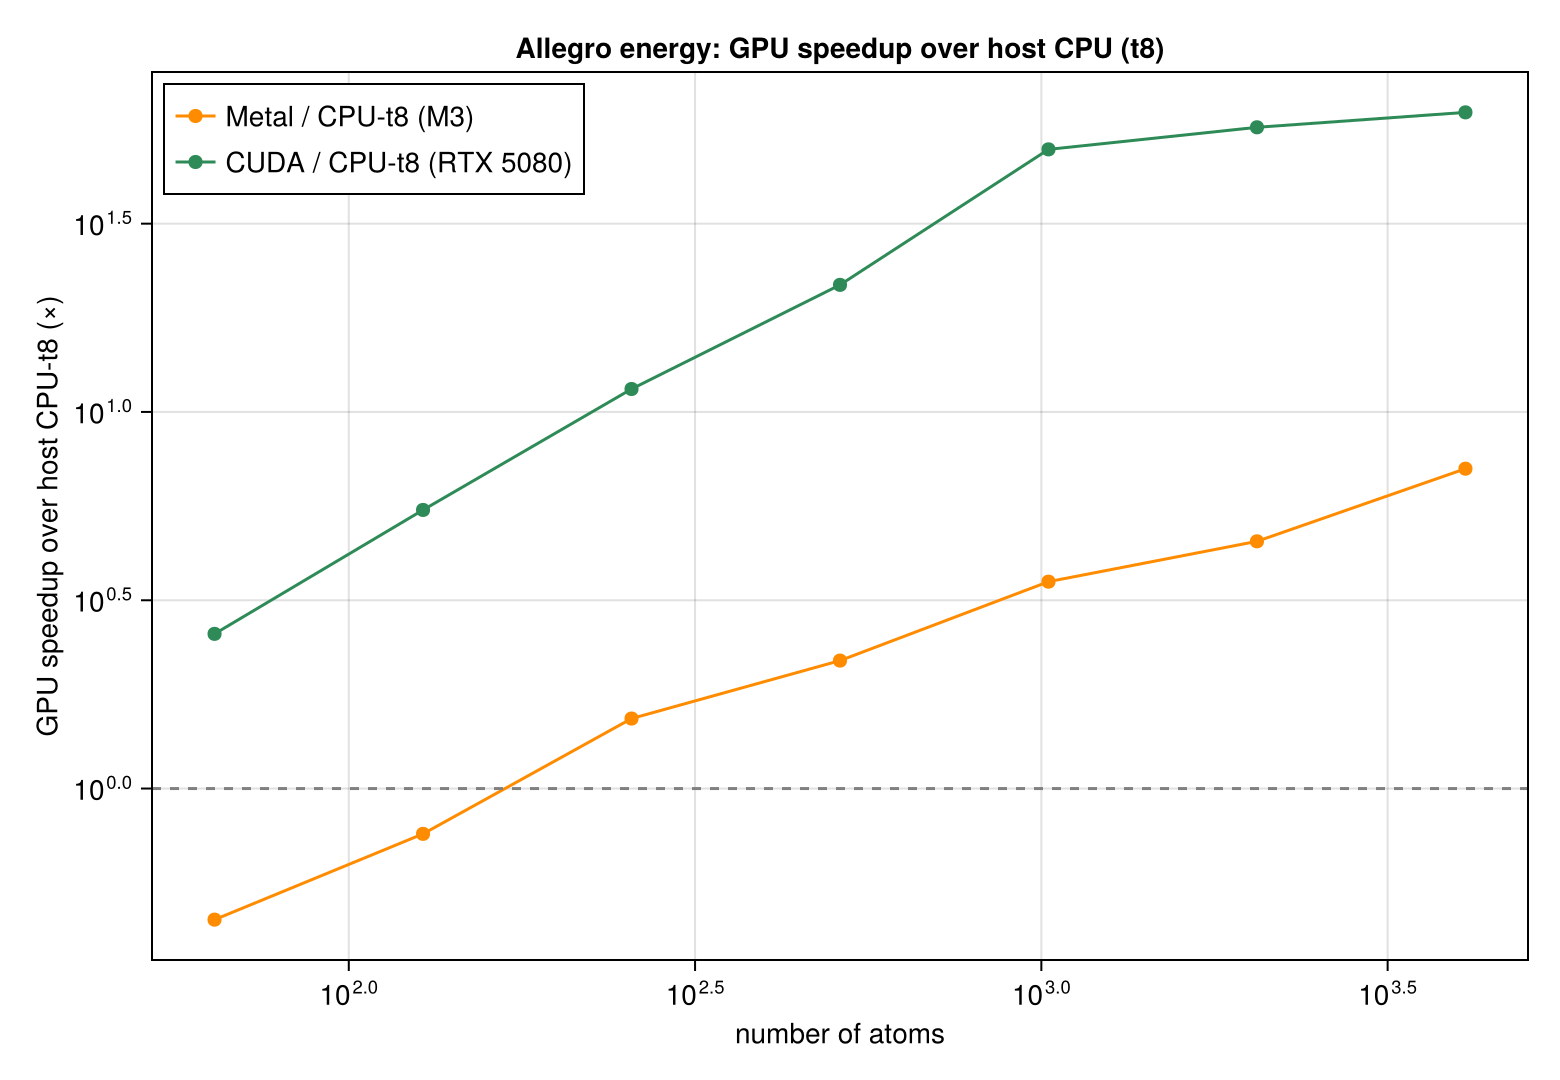
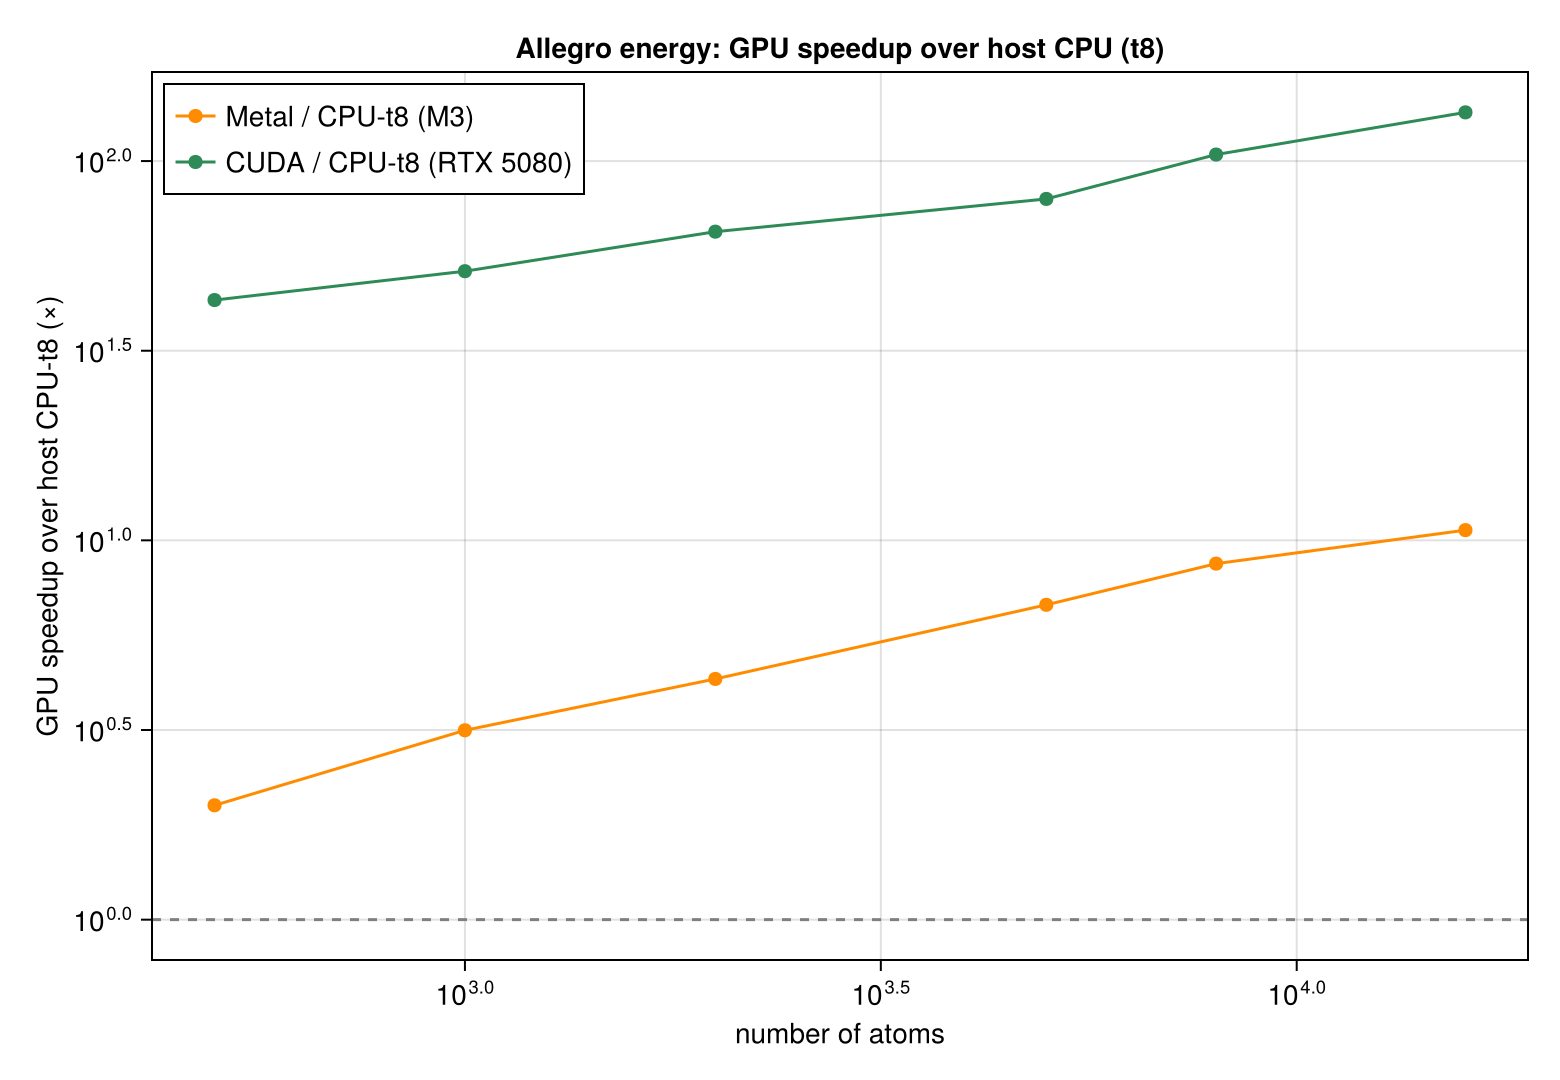
Allegro benchmarks: update report + figures to ANI sizes (500-15,954 atoms)
Rebenchmarked energy + forces vs N at the ANI-2x sizes across all backends. Tables
and prose show Molly's native GPU (CUDA + Metal) is the fastest at every size for
both energy and forces (32/71 ms at 15,954 atoms vs nequip CUDA 50/116, allegro-jax
4.7/4.8 s), and the only Apple-GPU path; the references win only on CPU forces
(nequip's torch autograd). Added ANI-style GPU-speedup-over-CPU-t8 plots with the
slow-CPU-baseline caveat. allegro-jax dense O(N^2) so its CPU stops at 2000 atoms.

diff --git a/benchmark/allegro_benchmarks.md b/benchmark/allegro_benchmarks.md
@@ -145,72 +145,66 @@ host** while Metal is the **Apple M3** (cross-machine). Reproduce with `benchmar
 (nequip) and `benchmark/allegro_jax_bench.py` (JAX) alongside `benchmark/allegro_cuda_compare.jl` and
 `benchmark/allegro.jl` (Molly), on the same machine.
 
-**Energy, time in ms.** CPU (t1/t8) and CUDA are the RTX 5080 host; Molly Metal is the Apple M3.
-Metal is Molly-only (see below). `allegro-jax`'s CPU column is one value because it is
-thread-insensitive (t1 ≈ t8); being dense O(N²) it reaches 4096 atoms only via adaptive timing and is
-impractical there (~42 s). The figures draw its t1 and t8 as separate lines, which coincide.
+Sizes follow the ANI-2x benchmark (500 → 15,954 atoms, the full 6mrr protein). CPU (t8) and CUDA are
+the RTX 5080 host; Molly Metal is the Apple M3 (cross-machine — read the scaling, not the cross-device
+level). CPU is shown at t8; t1 is ~2–3× slower (Molly/nequip thread ~2–3×; `allegro-jax` is XLA-fused
+and thread-insensitive, t1 ≈ t8). `allegro-jax` is dense O(N²), so its CPU stops at 2000 atoms
+(already ~15 s there) and its GPU scales far worse than the neighbour-list codes.
 
-| atoms | Molly CUDA | Molly Metal | Molly t8 | Molly t1 | nequip CUDA | nequip t8 | nequip t1 | jax CUDA | jax CPU |
-| :---: | :---: | :---: | :---: | :---: | :---: | :---: | :---: | :---: | :---: |
-| 64   | 1.33 | 1.86  | 3.4   | 11.4   | 5.65  | 162  | 13.5   | 6.7   | 13     |
-| 256  | 1.47 | 2.08  | 16.9  | 55.7   | 5.59  | 310  | 114.1  | 30.2  | 195    |
-| 512  | 1.64 | 2.76  | 35.7  | 123.0  | 5.68  | 400  | 242.8  | 80.4  | 859    |
-| 1024 | 2.13 | 3.77  | 106.3 | 308.3  | 5.70  | 573  | 585.9  | 167.5 | 3779   |
-| 2048 | 3.62 | 6.60  | 206.1 | 653.8  | 7.85  | 747  | 1203.7 | 344.8 | 16302  |
-| 4096 | 7.32 | 12.83 | 457.0 | 1511.2 | 13.42 | 1899 | 2600.5 | 877.0 | 42455  |
+**Energy, time in ms:**
 
-(`torch.compile` brings nequip CUDA to ~2.5–5 ms — still slower than Molly; omitted for clarity.
-`allegro-jax` uses dense all-pairs, so it scales O(N²) and is far slower at scale.)
+| atoms | **Molly CUDA** | **Molly Metal** | Molly CPU-t8 | nequip CUDA | nequip CPU-t8 | jax CUDA | jax CPU-t8 |
+| :---: | :---: | :---: | :---: | :---: | :---: | :---: | :---: |
+| 500    | **1.6**  | 2.9  | 70   | 5.8  | 523  | 77   | 898   |
+| 1000   | **2.0**  | 4.0  | 104  | 5.9  | 814  | 167  | 3638  |
+| 2000   | **3.8**  | 6.8  | 246  | 7.4  | 771  | 345  | 15511 |
+| 5000   | **9.3**  | 15.7 | 740  | 15.6 | 1811 | 1264 | —     |
+| 8000   | **15.0** | 25.1 | 1565 | 24.6 | 2666 | 1888 | —     |
+| 15,954 | **32.3** | 57.5 | 4338 | 50.1 | 3924 | 4749 | —     |
+
+**Molly CUDA is the fastest energy at every size** — at the full 15,954-atom protein it is **32 ms**,
+vs nequip CUDA 50 ms and allegro-jax CUDA 4.7 s. Molly Metal (57 ms) is the strongest Apple-GPU path,
+and the *only* one: nequip needs float64 and `allegro-jax` fails under `jax-metal`, so neither runs on
+Apple GPU at all.
 
 ![Allegro energy: all implementations](images/allegro_benchmark_energy.png)
 
-**Forces, time in ms** (Molly analytic vs nequip/jax autograd). CPU (t1/t8) and CUDA are the RTX 5080
-host; Molly Metal is the Apple M3. Every line spans all seven sizes (the dense `allegro-jax` CPU run
-is timed adaptively so it reaches 4096; its t1 ≈ t8, one column). Molly's CPU t1/t8 here are a fair
-back-to-back pair; the box is shared, so read the CPU absolutes as ±~30% but the t8/t1 and
-cross-implementation *ratios* as robust.
+**Forces, time in ms** (Molly analytic backward vs nequip/jax autograd):
 
-| atoms | Molly CUDA | Molly Metal | Molly t8 | Molly t1 | nequip CUDA | nequip t8 | nequip t1 | jax CUDA | jax CPU |
-| :---: | :---: | :---: | :---: | :---: | :---: | :---: | :---: | :---: | :---: |
-| 64   | 4.3  | 6.1  | 53.9   | 54.0   | 15.2 | 357   | 33.0   | 6.6   | 17     |
-| 256  | 5.4  | 6.5  | 236.9  | 288.7  | 15.3 | 747   | 297.7  | 30.0  | 219    |
-| 512  | 5.3  | 7.0  | 528.9  | 669.9  | 15.3 | 1038  | 633.3  | 79.5  | 903    |
-| 1024 | 5.6  | 10.1 | 1191.1 | 1577.4 | 15.4 | 1426  | 1330.7 | 169.3 | 3822   |
-| 2048 | 10.6 | 17.3 | 2679.6 | 3588.2 | 17.1 | 2287  | 2785.1 | 346.3 | 16514  |
-| 4096 | 17.9 | 30.2 | 6087.9 | 7760.0 | 30.3 | 13131 | 5828.9 | 891.9 | 42094  |
+| atoms | **Molly CUDA** | **Molly Metal** | Molly CPU-t8 | nequip CUDA | nequip CPU-t8 | jax CUDA | jax CPU-t8 |
+| :---: | :---: | :---: | :---: | :---: | :---: | :---: | :---: |
+| 500    | **5.2**  | 7.0   | 389   | 15.7  | 1290 | 79   | 953   |
+| 1000   | **6.0**  | 9.7   | 902   | 15.6  | 2154 | 166  | 3678  |
+| 2000   | **9.3**  | 16.5  | 2098  | 16.9  | 2058 | 350  | 15667 |
+| 5000   | **22.7** | 41.2  | 5862  | 37.2  | 4638 | 1263 | —     |
+| 8000   | **39.1** | 60.3  | 9600  | 54.9  | 5238 | 1835 | —     |
+| 15,954 | **70.8** | 133.1 | 20045 | 115.6 | 9145 | 4801 | —     |
 
-Molly CUDA forces match the CPU analytic forces to machine precision (max |ΔF| ≈ 2e-14, Float64);
-Metal forces to ≈ 1e-5 (Float32). The CUDA backward is the fastest forces path here at every size.
+**Molly CUDA is again the fastest forces path at every size** — 71 ms at 15,954 atoms vs nequip
+CUDA 116 ms and allegro-jax CUDA 4.8 s — and its forces match the CPU analytic backward to machine
+precision (max |ΔF| ≈ 2e-14, Float64; Metal ≈ 1e-5, Float32). Molly Metal (133 ms) is again the only
+Apple-GPU forces path. The one place the references win is **CPU forces**: nequip's optimised torch
+autograd (9.1 s at 15,954) beats Molly's allocation-heavy analytic backward (20 s) — so on CPU
+nequip leads, but on GPU, the path that matters for production MD, Molly is fastest.
 
 ![Allegro forces: all implementations](images/allegro_benchmark_force.png)
 
 Reading it:
 
-- **Energy: Molly's native kernels win clearly.** Molly's CUDA energy is **1.8×–4.2× faster** than
-  nequip-allegro (launch-bound at ~5.6 ms flat; ~2.5–5 ms even with `torch.compile`) and stays
-  sub-10 ms to 4096 atoms. `allegro-jax` uses dense all-pairs, so it scales **O(N²)** and is far
-  slower at scale (877 ms vs Molly's 7 ms at 4096). On CPU, PyTorch's threading is pathological at
-  these sizes (162 ms at 64 atoms on 8 threads, vs Molly's 3.4 ms); Molly's threaded CPU energy is
-  10–50× faster, and Molly single-threaded (t1) still beats nequip's 8-thread energy at every size.
-  Molly Metal (Apple M3) also beats nequip CUDA at small N.
+- **Molly's native GPU wins on both energy and forces, and the lead grows with system size.** At the
+  full 6mrr protein (15,954 atoms) Molly CUDA is 32 ms energy / 71 ms forces — faster than nequip
+  CUDA (50 / 116 ms) and dramatically faster than the dense `allegro-jax` (4.7 / 4.8 s). Molly's
+  forces are the exact analytic gradient (finite-diff ~1e-9), so this is a like-for-like win.
 - **Metal is a Molly-only capability.** Neither reference runs on Apple GPU: nequip-allegro requires
-  `float64` (its per-type energy shift casts to global float64) and MPS is float32-only, and
-  `allegro-jax` fails to compile under `jax-metal` (`unknown attribute code`). Molly's native Metal
-  **energy and forces** both run where **both** references cannot. (The energy figure shows t1/t8/CUDA
-  for every backend over the full range each can reach — `allegro-jax` is dense O(N²), so its CPU line
-  stops at 512 atoms; the forces figure holds every line to the same seven sizes, 64→4096.)
-- **Forces now run on the GPU too — and win.** Molly's analytic backward is implemented as a native
-  GPU-portable reverse pass (`compute_allegro_forces_ka`, KernelAbstractions), so forces run on CUDA
-  and Metal, not just CPU. On CUDA the backward reproduces the CPU analytic forces to **machine
-  precision** (max |ΔF| ≈ 2e-14, Float64) and is **flat ~4–18 ms from 64 to 4096 atoms — ~300× over
-  Molly CPU-t8** and faster than nequip's CUDA autograd forces (~15 ms flat) at every size shown.
-  Metal forces (Float32, max |ΔF| ≈ 1e-5) run **6–30 ms**, ~25× over CPU-t8. The CPU analytic
-  backward is threaded (tape build + both backward passes run per centre atom; only the final
-  Cartesian scatter is serial), so CPU-t8 sits below t1 — but the gain is modest (~1.2× on the
-  12-core broadwell box, ~1.8× on the M3) because the reverse pass is allocation-heavy and so becomes
-  memory-bandwidth-bound at higher core counts; the GPU path is the real forces speedup. `allegro-jax`
-  CPU forces are XLA-fused and fully thread-insensitive, so its t1 and t8 forces lines coincide (the
-  dense O(N²) run is timed adaptively so it still reaches 4096 atoms).
+  `float64` (MPS is float32-only) and `allegro-jax` fails to compile under `jax-metal`. So Molly's
+  native Metal — 57 ms energy / 133 ms forces at 15,954 atoms — is the only Allegro that runs the
+  whole model on the Apple GPU. (At 5000–15,954 atoms Molly Metal on the M3 and nequip CUDA on the
+  RTX 5080 happen to land at nearly the same absolute time, so their lines overlap in the figures.)
+- **The references win only on CPU.** nequip's optimised PyTorch autograd is faster than Molly's
+  allocation-heavy analytic backward on CPU forces (9.1 s vs 20 s at 15,954), and both CPU codes are
+  far behind their own GPUs. `allegro-jax`'s dense O(N²) makes its CPU impractical past 2000 atoms
+  (~15 s there) and its GPU the slowest at scale. The GPU path — where Molly leads — is the one that
+  matters for production MD.
 
 ### GPU speedup over host CPU-t8
 
@@ -221,12 +215,14 @@ RTX 5080 — a within-machine ratio; read the scaling shape, not the cross-machi
 
 ![Allegro forces: GPU speedup over host CPU-t8](images/allegro_forces_gpu_speedup.png)
 
-On **forces**, Molly CUDA and nequip CUDA both reach ~300× over their CPU-t8 at 4096 atoms, Molly
-Metal ~25×, allegro-jax CUDA ~45×. On **energy**, note that `nequip`'s ratio is the *highest* not
-because its GPU is fastest but because its CPU is pathologically slow (threaded PyTorch is 100–200 ms
-even at small N), so a large GPU/CPU ratio there is a slow-baseline artefact — Molly's smaller energy
-ratio sits on a much faster CPU. The absolute head-to-head above is the fairer read; the speedup
-curves show each implementation's own GPU-vs-CPU scaling.
+**These are within-machine ratios, so read them carefully.** On **forces** Molly CUDA rises to ~280×
+its CPU-t8 at 15,954 atoms and nequip CUDA to ~80×, Molly Metal ~25×, allegro-jax CUDA ~45× (its CPU
+baseline stops at 2000). On **energy** `nequip`'s ratio starts *highest* and *drops* — not because its
+GPU is fastest, but because its threaded PyTorch CPU is pathologically slow at small N (100–800 ms),
+so that big ratio is a slow-CPU-baseline artefact that fades as N grows; Molly's ratio sits on a
+genuinely fast CPU and rises with real GPU scaling. **The absolute head-to-head tables above are the
+fair comparison** (there Molly CUDA is fastest outright); the speedup curves only show each
+implementation's own GPU-vs-CPU scaling.
 
 ---
 
